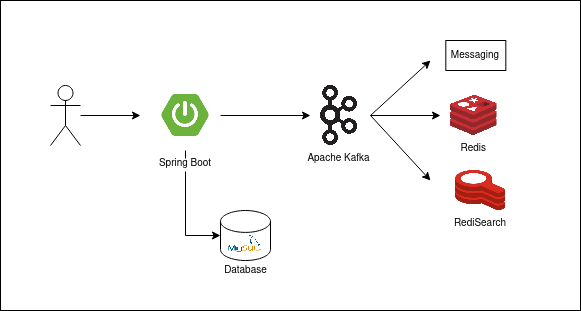
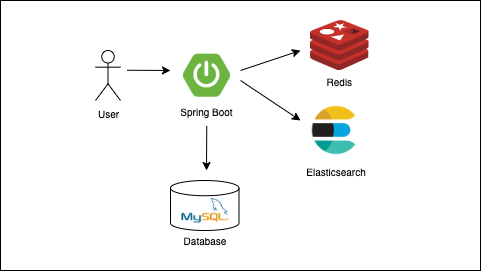
README update

diff --git a/README.md b/README.md
@@ -2,7 +2,6 @@
 
 사용자들이 자유롭게 프로젝트를 공유하고 팀원들을 찾아 협업하는 플랫폼을 개발하는 프로젝트이다.
 
-
 ## 시나리오 
 
 ![Scenario](docs/pics/scenario.png)
@@ -10,12 +9,10 @@
 1. 먼저 사용자는 프로젝트 정보를 담아 올린다.
     ```
     프로젝트 내용
-    - 이름
+    - 제목
     - 상세 내용
     - 진행 기간
-    - 협업자 조건
     - 협업자 인원수
-    - 관련 분야 (개발, 마케팅, ...)
     ```
 
 2. 업로드된 프로젝트를 검색해 찾아 볼 수 있으며 프로젝트 취지와 조건이 맞으면 프로젝트 관리자에게 메시지를 보낼 수 있다.
@@ -33,18 +30,35 @@
 Spring Boot
 - 신속하게 개발하기 위해 Spring Boot를 사용함
 
-Kafka
-- 메세지 브로커 역할
-- 모든 내용은 Kafka를 통해 토픽에 저장되고 서비스에 활용되는 프로그램들은 정보를 받아와 처리하는 흐름으로 구성함
-
 MySQL
-- 메인 데이터베이스로 활용해 유저 정보와 프로젝트 정보를 담는 역할
-- Redis에 저장되는 메시지 내용을 백업하는 용도로 사용함
+- 메인 데이터베이스로 활용해 유저, 프로젝트, 메세지 정보를 담는 용도로 사용함
+- Redis에 저장되는 메시지 내용을 백업해서 사용함
 
 Redis
 - 메시지 정보를 빠른 속도로 저장하고 읽기 위해 in-memory 데이터베이스로 사용
-- 프로젝트 정보를 저장하고 검색하는 용도로 사용
+- Redis pub/sub 을 사용해서 서로 다른 서버끼리의 데이터 전달을 도와주는 용도로 사용
+- Redis cluster 를 사용해서 신속하게 메시지를 저장하고 읽는 목적으로 사용
 
-RediSearch
-- Redis 기반 검색 엔진
+Elasticsearch
+- Lucene 기반 검색 엔진
+- 프로젝트 찾는 용도로 사용
 ```
+
+### 서비스 아키텍쳐
+
+![User Architecture](docs/pics/service_user.png)
+
+유저는 처음 사이트에 접속하면 가입을 해야된다. 계정이 있으면 로그인을 통해 메인 화면으로 이동할 수 있다.
+
+![Project Architecture](docs/pics/service_project.png)
+
+프로젝트를 처음 생성하면 먼저 데이터베이스에 저장된다. 그리고 받은 결과를 사용해서 프로젝트용 그룹 메세지가 생성되고 Elasticsearch 에 저장하도록 설계했다.
+유저들은 프로젝트를 검색해 프로젝트 관리자에게 메세지를 보낼 수 있고 관리자는 원하는 유저들을 프로젝트용 그룹 메세지에 초대해서 작업을 진행할 수 있다.
+
+![Messaging Architecture](docs/pics/service_message.png)
+
+만약 서버가 2개 이상이라고 가정하면 1번 서버에 있는 유저가 2번 서버에 있는 유저에게 메세지를 보내려고 하면 중간에 연결해주는 매개체가 필요하다. 
+그래서 이 부분을 Redis Pub/Sub 시스템을 사용해서 연결해 주었다. 유저 1이 메세지를 보내면 레디스 서버 채널에 publish 한다.
+반대로 다른 서버에 있는 수신자는 레디스 서버 채널에 subscribe 해서 메세지를 받아온다.
+그러나 Redis Pub/Sub 에서는 메세지들이 저장되지 않으므로 이를 캐싱 개념으로 최근에 온 문자들은 레디스 서버에 저장했다. 
+그리고 저장된 데이터들은 관계형 데이터베이스에 마이그레이션 하는 구조로 메세지 서비스를 만들었다. 
